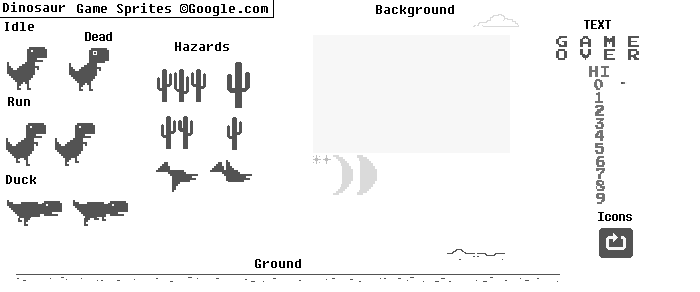
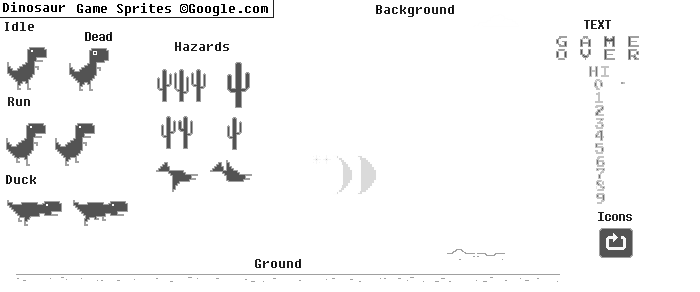
Animaciones y correccion de diseno y logica

diff --git a/juego.js b/juego.js
@@ -1,5 +1,5 @@
 //BUCLE PRINCIPAL - Ejecución
-var FPS=24;
+var FPS=10;
 setInterval(function() {
     principal();
 },1000/FPS);
@@ -64,7 +64,7 @@ var sujeto={
     velocidadY: 18,
     velocidadYMax:9,
     salto:20,
-    gravedad:2,
+    gravedad:2.5,
     saltando:false
 };
 
@@ -111,7 +111,7 @@ function logicaObstaculo() {
 
 //Creando nube
 function dibujaNube() {
-    contexto.drawImage(sprites,472,14,49,15,nube.X,nube.Y,50,50);
+    contexto.drawImage(sprites,446,246,62,14,nube.X,nube.Y,62,14);
 }
 
 var nube={
@@ -124,7 +124,7 @@ function logicaNube() {
     if (nube.X>-20) {
         nube.X-=nube.velocidad;
     } else {
-        nube.X=ancho+100;
+        nube.X=ancho+10;
     }
 }
 
@@ -151,6 +151,11 @@ function logicaSuelo() {
 function colision() {
     if (obstaculo.X>=100 && obstaculo.X<=150) {
         if(sujeto.Y>=suelo-50){
+            if (nivel.puntuacionMax<nivel.puntuacion) {
+                nivel.puntuacionMax=nivel.puntuacion;
+            }
+            contexto.font="20px impact";
+            contexto.fillText("Puntuación Máxima: "+nivel.puntuacionMax,150,50);
             nivel.muerto=true;
             nivel.velocidad=0;
             nube.velocidad=0;
@@ -162,9 +167,10 @@ function colision() {
 
 //Creando nivel
 var nivel={
-    velocidad:9,
+    velocidad:15,
     puntuacion:0,
-    muerto:false
+    muerto:false,
+    puntuacionMax:0
 };
 
 //Muerte
